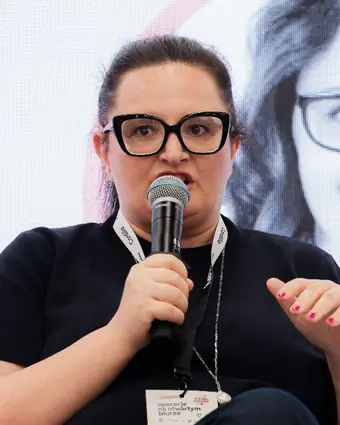
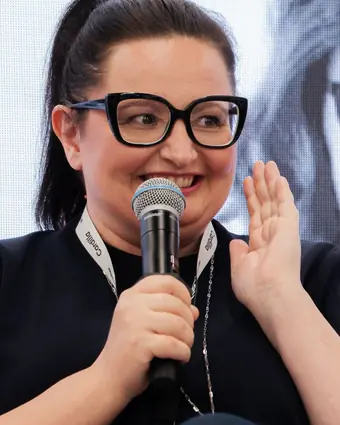
Nowe zdjecie, mniej ozdobnikow, delikatne animacje, VAT 23%
Zdjecie:
- oba kadry (hero i portret) przeciete z nowego ujecia z usmiechem
- hero bez zmian w ukladzie: dwie kolumny, tekst po lewej, zdjecie po prawej

Mniej ozdobnikow - usuniete typowe znaki szablonu generowanego przez AI:
- ikona "iskierek" (najbardziej oklepany znak AI) zastapiona konkretna ikona
- wszystkie gradientowe poswiaty w tle sekcji (hero, prawnik, cena, finalne
  CTA) zastapione czystym tlem i cienka linia
- poswiata rozmyta za zdjeciem w hero - usunieta
- efekt glass (backdrop-filter) usuniety z kart, parametrow programu,
  plakietki przy zdjeciu i paska sticky; w miejsce niego biale tlo i obramowanie
- pastelowe kafelki pod ikonami zastapione sama ikona liniowa
- drobne etykiety (logotypy, tagi, kroki procesu, chipy) z pigulek na
  prostokaty o promieniu 8 px; przyciski zostaja pigulkami

Animacje:
- sekcje i karty pojawiaja sie przy przewijaniu, karty w siatce po kolei
- drobne reakcje na najechanie: uniesienie karty, powiekszenie zdjecia
  o 1,2 procent, podswietlenie otwartego pytania w FAQ
- klase uruchamiajaca dodaje JavaScript, wiec bez JS tresc jest widoczna;
  przy prefers-reduced-motion animacje sie nie wlaczaja

Tresc:
- cena: "+ 23% VAT" zamiast "VAT zgodnie z obowiazujacymi przepisami"
- usuniete "Mozliwosc finansowania udzialu przez pracodawce" i "Mozliwy zakup
  przez pracodawce"; zostaje samo "Faktura VAT"

Sprawdzone: po przewinieciu calej strony zaden z 55 animowanych elementow nie
[…]

diff --git a/ai-office-manager/index.html b/ai-office-manager/index.html
@@ -113,10 +113,11 @@
 .omai-ico{width:22px;height:22px;flex:0 0 auto;stroke:currentColor;fill:none;stroke-width:1.6;stroke-linecap:round;stroke-linejoin:round}
 .omai-ico--sm{width:18px;height:18px}
 .omai-icobox{
-  width:44px;height:44px;border-radius:13px;display:flex;align-items:center;justify-content:center;
-  background:var(--magenta-soft);color:var(--magenta);margin-bottom:18px;
+  display:flex;align-items:center;justify-content:center;width:26px;height:26px;
+  color:var(--magenta);margin-bottom:16px;
 }
-.omai-icobox--silver{background:var(--silver-soft);color:var(--graphite)}
+.omai-icobox .omai-ico{width:26px;height:26px;stroke-width:1.5}
+.omai-icobox--silver{color:var(--graphite)}
 
 /* ---------- karty ---------- */
 .omai-grid{display:grid;gap:18px}
@@ -129,12 +130,7 @@
 }
 .omai-card h3,.omai-card h4{margin-bottom:10px}
 .omai-card p{font-size:15.5px;color:var(--muted);line-height:1.6}
-.omai-card--glass{
-  background:linear-gradient(140deg,rgba(255,255,255,.82),rgba(255,255,255,.55));
-  -webkit-backdrop-filter:blur(14px);backdrop-filter:blur(14px);
-  border:1px solid rgba(255,255,255,.9);
-  box-shadow:var(--shadow-md);
-}
+.omai-card--glass{background:#fff;border:1px solid var(--silver);box-shadow:var(--shadow-sm)}
 .omai-card--accent{border-color:rgba(214,0,110,.28)}
 
 /* listy z ptaszkiem */
@@ -170,30 +166,20 @@
 /* ---------- HERO ---------- */
 .omai-hero{
   position:relative;overflow:hidden;
-  background:
-    radial-gradient(900px 420px at 12% -8%,rgba(214,0,110,.09),transparent 62%),
-    radial-gradient(760px 420px at 92% 6%,rgba(64,120,220,.09),transparent 60%),
-    #fff;
+  background:#fff;
   padding:clamp(44px,6vw,80px) 0 clamp(52px,6vw,88px);
 }
 .omai-hero__grid{display:grid;gap:clamp(32px,5vw,56px);grid-template-columns:1fr;align-items:center}
 .omai-hero__inner{max-width:880px}
 .omai-hero__photo{position:relative;margin:0;max-width:420px}
-.omai-hero__photo::before{
-  content:"";position:absolute;inset:-20px -20px -12px;border-radius:38px;z-index:0;
-  background:linear-gradient(150deg,rgba(214,0,110,.12),rgba(64,120,220,.12));
-  filter:blur(22px);
-}
 .omai-hero__photo img{
   position:relative;z-index:1;width:100%;height:auto;display:block;
   border-radius:var(--radius-lg);box-shadow:var(--shadow-md);
 }
 .omai-hero__photo figcaption{
   position:absolute;z-index:2;left:14px;bottom:14px;
-  background:linear-gradient(140deg,rgba(255,255,255,.92),rgba(255,255,255,.74));
-  -webkit-backdrop-filter:blur(14px);backdrop-filter:blur(14px);
-  border:1px solid rgba(255,255,255,.95);box-shadow:var(--shadow-sm);
-  border-radius:14px;padding:10px 16px;
+  background:#fff;border:1px solid var(--silver);box-shadow:var(--shadow-sm);
+  border-radius:12px;padding:10px 16px;
   font-size:14px;font-weight:700;color:var(--ink);line-height:1.25;letter-spacing:-.01em;
 }
 .omai-hero__photo figcaption span{
@@ -211,10 +197,8 @@
   margin:34px 0 32px;max-width:720px;
 }
 .omai-fact{
-  background:linear-gradient(140deg,rgba(255,255,255,.85),rgba(255,255,255,.5));
-  -webkit-backdrop-filter:blur(12px);backdrop-filter:blur(12px);
-  border:1px solid rgba(255,255,255,.95);box-shadow:var(--shadow-sm);
-  border-radius:15px;padding:16px 18px;
+  background:#fff;border:1px solid var(--silver);
+  border-radius:12px;padding:16px 18px;
   font-size:15px;font-weight:600;color:var(--ink);line-height:1.35;
   display:flex;align-items:center;gap:11px;
 }
@@ -234,14 +218,14 @@
 }
 .omai-logo{
   font-size:13px;font-weight:600;letter-spacing:.05em;color:#7b7b88;
-  background:#fff;border:1px solid var(--silver);border-radius:999px;padding:8px 16px;white-space:nowrap;
+  background:#fff;border:1px solid var(--silver);border-radius:8px;padding:8px 16px;white-space:nowrap;
 }
 .omai-proof__cap{font-size:12.5px;color:var(--muted-soft)}
 
 /* ---------- rezultaty (duże karty) ---------- */
 .omai-result{
   border-radius:var(--radius-lg);padding:32px 28px;border:1px solid var(--silver);
-  background:linear-gradient(150deg,#fff, #fcfcfe);box-shadow:var(--shadow-sm);
+  background:#fff;box-shadow:var(--shadow-sm);
   display:flex;flex-direction:column;gap:12px;
 }
 .omai-result__num{
@@ -274,22 +258,19 @@
 /* ---------- prawnik ---------- */
 .omai-legal{
   border-radius:var(--radius-lg);padding:clamp(30px,4.4vw,52px);
-  background:
-    radial-gradient(620px 280px at 8% 0%,rgba(214,0,110,.1),transparent 65%),
-    radial-gradient(620px 300px at 100% 100%,rgba(64,120,220,.1),transparent 62%),
-    #fbfbfd;
+  background:var(--silver-soft);
   border:1px solid var(--silver);
 }
 .omai-legal__grid{display:grid;gap:30px;grid-template-columns:1fr;margin-top:30px}
 .omai-qa{
   display:inline-flex;align-items:center;gap:10px;background:#fff;border:1px solid var(--silver);
-  border-radius:999px;padding:11px 22px;font-weight:600;color:var(--ink);font-size:15px;
+  border-radius:8px;padding:11px 22px;font-weight:600;color:var(--ink);font-size:15px;
 }
 
 /* ---------- proces ---------- */
 .omai-flow{display:flex;flex-wrap:wrap;gap:10px;align-items:center;justify-content:flex-start}
 .omai-flow__step{
-  background:#fff;border:1px solid var(--silver);border-radius:999px;padding:12px 22px;
+  background:#fff;border:1px solid var(--silver);border-radius:8px;padding:12px 22px;
   font-size:13.5px;font-weight:600;letter-spacing:.08em;color:var(--ink);white-space:nowrap;
   box-shadow:var(--shadow-sm);
 }
@@ -300,8 +281,8 @@
 .omai-bigfig{
   display:flex;flex-direction:column;align-items:center;justify-content:center;
   border-radius:var(--radius-lg);padding:44px 28px;text-align:center;
-  background:linear-gradient(150deg,var(--magenta-soft),#fff 70%);
-  border:1px solid rgba(214,0,110,.2);
+  background:var(--magenta-soft);
+  border:1px solid rgba(214,0,110,.18);
 }
 .omai-bigfig b{font-size:clamp(50px,9vw,80px);line-height:1;letter-spacing:-.04em;color:var(--magenta);font-weight:700}
 .omai-bigfig span{margin-top:10px;font-size:13px;font-weight:600;letter-spacing:.18em;text-transform:uppercase;color:var(--ink)}
@@ -321,7 +302,7 @@
 .omai-tags{display:flex;flex-wrap:wrap;gap:8px;margin-top:24px}
 .omai-tag{
   font-size:13px;font-weight:500;color:var(--graphite);background:#fff;
-  border:1px solid var(--silver);border-radius:999px;padding:7px 15px;
+  border:1px solid var(--silver);border-radius:8px;padding:7px 15px;
 }
 
 /* ---------- opinie ---------- */
@@ -337,11 +318,8 @@
 /* ---------- cena ---------- */
 .omai-price{
   border-radius:var(--radius-lg);border:1px solid rgba(214,0,110,.26);
-  background:
-    radial-gradient(700px 300px at 0% 0%,rgba(214,0,110,.08),transparent 60%),
-    radial-gradient(700px 320px at 100% 100%,rgba(64,120,220,.08),transparent 60%),
-    #fff;
-  box-shadow:var(--shadow-md);padding:clamp(30px,4.4vw,52px);
+  background:#fff;
+  box-shadow:var(--shadow-sm);padding:clamp(30px,4.4vw,52px);
 }
 .omai-price__grid{display:grid;gap:34px;grid-template-columns:1fr;margin-top:26px}
 .omai-price__fig{font-size:clamp(42px,7.6vw,64px);font-weight:700;letter-spacing:-.04em;color:var(--ink);line-height:1}
@@ -378,14 +356,11 @@
 
 /* ---------- finalne CTA ---------- */
 .omai-final{
-  background:
-    radial-gradient(800px 380px at 50% 0%,rgba(214,0,110,.08),transparent 62%),
-    radial-gradient(760px 380px at 90% 100%,rgba(64,120,220,.08),transparent 60%),
-    #fff;
+  background:var(--silver-soft);border-top:1px solid var(--silver);
 }
 .omai-final__chips{display:flex;flex-wrap:wrap;gap:10px;justify-content:center;margin:30px 0 34px}
 .omai-chip{
-  background:#fff;border:1px solid var(--silver);border-radius:999px;padding:10px 20px;
+  background:#fff;border:1px solid var(--silver);border-radius:8px;padding:10px 20px;
   font-size:14.5px;font-weight:600;color:var(--ink);box-shadow:var(--shadow-sm);
 }
 .omai-chip--accent{border-color:rgba(214,0,110,.35);color:var(--magenta)}
@@ -443,7 +418,7 @@
 /* ---------- sticky CTA (mobile) ---------- */
 .omai-sticky{
   position:fixed;left:0;right:0;bottom:0;z-index:60;padding:10px 16px calc(10px + env(safe-area-inset-bottom));
-  background:rgba(255,255,255,.92);-webkit-backdrop-filter:blur(12px);backdrop-filter:blur(12px);
+  background:#fff;
   border-top:1px solid var(--silver);display:none;
   transform:translateY(130%);transition:transform .25s ease;
 }
@@ -478,8 +453,29 @@
   .omai-author{grid-template-columns:340px 1fr;gap:48px}
   .omai-price__grid{grid-template-columns:1fr 1fr;gap:56px}
 }
+/* ---------- delikatne animacje ---------- */
+/* Klasa js-anim jest dodawana przez JS, więc bez skryptu treść jest widoczna. */
+.js-anim .omai-reveal{
+  opacity:0;transform:translateY(16px);
+  transition:opacity .6s cubic-bezier(.22,.61,.36,1),transform .6s cubic-bezier(.22,.61,.36,1);
+  transition-delay:var(--opoznienie,0ms);
+  will-change:opacity,transform;
+}
+.js-anim .omai-reveal.is-widoczne{opacity:1;transform:none}
+
+.omai-card,.omai-week,.omai-result,.omai-testi{transition:transform .25s ease,box-shadow .25s ease,border-color .25s ease}
+.omai-card:hover,.omai-result:hover{transform:translateY(-2px);box-shadow:var(--shadow-md)}
+.omai-week:hover{box-shadow:var(--shadow-md)}
+.omai-hero__photo img{transition:transform .5s cubic-bezier(.22,.61,.36,1)}
+.omai-hero__photo:hover img{transform:scale(1.012)}
+.omai-faq details summary{transition:color .18s ease}
+.omai-faq details[open] summary{color:var(--magenta)}
+.omai-logo{transition:border-color .2s ease,color .2s ease}
+.omai-logo:hover{border-color:var(--muted-soft);color:var(--graphite)}
+
 @media (prefers-reduced-motion:reduce){
-  .omai *{transition:none!important;animation:none!important}
+  .omai *,.js-anim .omai-reveal{transition:none!important;animation:none!important}
+  .js-anim .omai-reveal{opacity:1!important;transform:none!important}
 }
 </style>
 </head>
@@ -508,7 +504,7 @@
     <symbol id="omai-i-map" viewBox="0 0 24 24"><path d="M9 3 3 5.6v15L9 18l6 3 6-2.6v-15L15 6z"/><path d="M9 3v15M15 6v15"/></symbol>
     <symbol id="omai-i-chat" viewBox="0 0 24 24"><path d="M21 12a8 8 0 0 1-8 8H8l-5 2 1.6-4.4A8 8 0 1 1 21 12z"/></symbol>
     <symbol id="omai-i-arrow" viewBox="0 0 24 24"><path d="M5 12h14M13 6l6 6-6 6"/></symbol>
-    <symbol id="omai-i-spark" viewBox="0 0 24 24"><path d="M12 3.5 13.7 9l5.5 1.7-5.5 1.7L12 18l-1.7-5.6L4.8 10.7 10.3 9z"/><path d="M18.5 16.5l.7 2 2 .7-2 .7-.7 2-.7-2-2-.7 2-.7z"/></symbol>
+    <symbol id="omai-i-case" viewBox="0 0 24 24"><rect x="2.5" y="7" width="19" height="13" rx="2"/><path d="M8.5 7V5.5A1.5 1.5 0 0 1 10 4h4a1.5 1.5 0 0 1 1.5 1.5V7"/><path d="M2.5 12.5h19M10.5 12.5v2h3v-2"/></symbol>
   </defs>
 </svg>
 
@@ -534,7 +530,7 @@
       <div class="omai-cta-row">
         <a class="omai-btn omai-btn--primary" href="#zapisy">Rezerwuję miejsce</a>
       </div>
-      <p class="omai-small omai-hero__fine">Możliwość finansowania udziału przez pracodawcę &bull; Faktura VAT</p>
+      <p class="omai-small omai-hero__fine">Faktura VAT</p>
     </div>
 
     <figure class="omai-hero__photo">
@@ -664,7 +660,7 @@
         <p>powtarzalne sposoby pracy.</p>
       </div>
       <div class="omai-card omai-card--glass">
-        <div class="omai-icobox"><svg class="omai-ico" aria-hidden="true"><use href="#omai-i-spark"></use></svg></div>
+        <div class="omai-icobox"><svg class="omai-ico" aria-hidden="true"><use href="#omai-i-case"></use></svg></div>
         <h4>Zastosujesz</h4>
         <p>AI w realnych zadaniach Office Managera.</p>
       </div>
@@ -1059,13 +1055,13 @@
       <div class="omai-price__grid">
         <div>
           <p class="omai-price__fig">1490 zł <span style="font-size:.46em;font-weight:600">netto</span>
-            <small>VAT zgodnie z obowiązującymi przepisami.</small>
+            <small>+ 23% VAT</small>
           </p>
 
           <div class="omai-cta-row" style="margin-top:30px">
             <a class="omai-btn omai-btn--primary" href="#zapisy">Rezerwuję miejsce</a>
           </div>
-          <p class="omai-small" style="margin-top:16px">Możliwy zakup przez pracodawcę &bull; Faktura VAT</p>
+          <p class="omai-small" style="margin-top:16px">Faktura VAT</p>
 
           <!-- TERMINY: uzupełnij po ustaleniu dat edycji -->
           <div class="omai-dates">
@@ -1211,7 +1207,7 @@
         </div>
 
         <p class="omai-form__subject">
-          <svg class="omai-ico omai-ico--sm" aria-hidden="true"><use href="#omai-i-spark"></use></svg>
+          <svg class="omai-ico omai-ico--sm" aria-hidden="true"><use href="#omai-i-file"></use></svg>
           <span>Zgłoszenie na program <b>OFFICE MANAGER AI OPERATIONS</b> — 4 tygodnie online, 4 × 2h LIVE + 1h z prawnikiem.</span>
         </p>
 
@@ -1333,6 +1329,49 @@
       history.replaceState(null, "", link.getAttribute("href"));
     });
   });
+
+  /* Delikatne pojawianie się sekcji przy przewijaniu.
+     Klasa js-anim leci dopiero tutaj, więc bez JS wszystko jest widoczne,
+     a przy prefers-reduced-motion CSS wyłącza ruch. */
+  var ruchOk = !window.matchMedia("(prefers-reduced-motion: reduce)").matches;
+
+  if (ruchOk && "IntersectionObserver" in window) {
+    var doAnimacji = document.querySelectorAll(
+      ".omai-section > .omai-wrap > .omai-head," +
+      ".omai-grid > *,.omai-week,.omai-result,.omai-legal,.omai-price," +
+      ".omai-author > *,.omai-bigfig,.omai-flow,.omai-form,.omai-faq," +
+      ".omai-final__chips,.omai-hero__photo,.omai-todo"
+    );
+
+    if (doAnimacji.length) {
+      document.documentElement.classList.add("js-anim");
+
+      doAnimacji.forEach(function (el) {
+        el.classList.add("omai-reveal");
+        /* stopniowanie tylko wewnątrz jednej siatki kart */
+        var rodzenstwo = el.parentElement && el.parentElement.classList.contains("omai-grid")
+          ? [].indexOf.call(el.parentElement.children, el)
+          : 0;
+        el.style.setProperty("--opoznienie", Math.min(rodzenstwo, 5) * 60 + "ms");
+      });
+
+      var obserwator = new IntersectionObserver(function (wpisy) {
+        wpisy.forEach(function (w) {
+          if (!w.isIntersecting) return;
+          w.target.classList.add("is-widoczne");
+          obserwator.unobserve(w.target);
+        });
+      }, { rootMargin: "0px 0px -8% 0px", threshold: 0.06 });
+
+      doAnimacji.forEach(function (el) { obserwator.observe(el); });
+
+      /* hero widoczne od razu, bez czekania na scroll */
+      requestAnimationFrame(function () {
+        document.querySelectorAll(".omai-hero .omai-reveal")
+          .forEach(function (el) { el.classList.add("is-widoczne"); });
+      });
+    }
+  }
 
   /* Sticky CTA na mobile: pokazuje się dopiero po hero i chowa nad formularzem,
      żeby nie dublować przycisku, który i tak jest na ekranie. */

diff --git a/ai-office-manager/WDROZENIE.md b/ai-office-manager/WDROZENIE.md
@@ -144,12 +144,27 @@ W katalogu `img/` są dwa kadry z tej samej sesji, każdy w jpg i webp, w wersji
 
 | Plik | Gdzie | Kadr |
 |---|---|---|
-| `agnieszka-korach-hero` | hero, prawa kolumna | 4:5, sylwetka z mikrofonem |
+| `agnieszka-korach-hero` | hero, prawa kolumna | 4:5, ujęcie z mikrofonem i gestem |
 | `agnieszka-korach-portret` | sekcja „Prowadzi Agnieszka Korach" | 4:5, ciaśniejszy portret |
 
-Z oryginału wycięta została rozmyta ciemna plama po prawej stronie (głowa osoby
-na pierwszym planie). Jeśli będziesz podmieniać zdjęcia, zachowaj proporcje 4:5
-i te same nazwy plików — wtedy nie trzeba ruszać HTML-a.
+Jeśli będziesz podmieniać zdjęcia, zachowaj proporcje 4:5 i te same nazwy
+plików — wtedy nie trzeba ruszać HTML-a.
+
+## Animacje
+
+Sekcje i karty pojawiają się przy przewijaniu (przesunięcie o 16 px i
+rozjaśnienie, 0,6 s), karty w jednej siatce z niewielkim opóźnieniem po kolei.
+Do tego drobne reakcje na najechanie: uniesienie karty, delikatne powiększenie
+zdjęcia w hero, podświetlenie otwartego pytania w FAQ.
+
+Dwa zabezpieczenia, żeby treść nigdy nie zniknęła:
+- klasę uruchamiającą animacje dodaje JavaScript, więc **bez JS wszystko jest
+  po prostu widoczne**,
+- przy ustawieniu „ogranicz ruch" w systemie animacje w ogóle się nie włączają.
+
+Sprawdzone: po przewinięciu całej strony żaden z 55 animowanych elementów nie
+zostaje ukryty; wejście prosto na `#zapisy`, `#cena` i powrót z `wyslij.php`
+pokazuje właściwą sekcję od razu.
 
 ## Źródła danych użytych na stronie
 
@@ -167,6 +182,8 @@ Ustawione bezpośrednio w `index.html`, nic nie trzeba dopisywać:
 
 - **title:** `AI dla Office Managera – 4-tygodniowy program | Office Influencers`
 - **meta description:** `Praktyczny 4-tygodniowy program AI dla Office Managerów. Własny Asystent AI, workflow, weryfikacja informacji, podstawy automatyzacji i sesja z prawnikiem.`
+
+Cena na stronie: **1490 zł netto + 23% VAT**.
 - jeden `<h1>`: `OFFICE MANAGER AI OPERATIONS`
 - Open Graph + dane strukturalne `Course` ze schema.org
 
